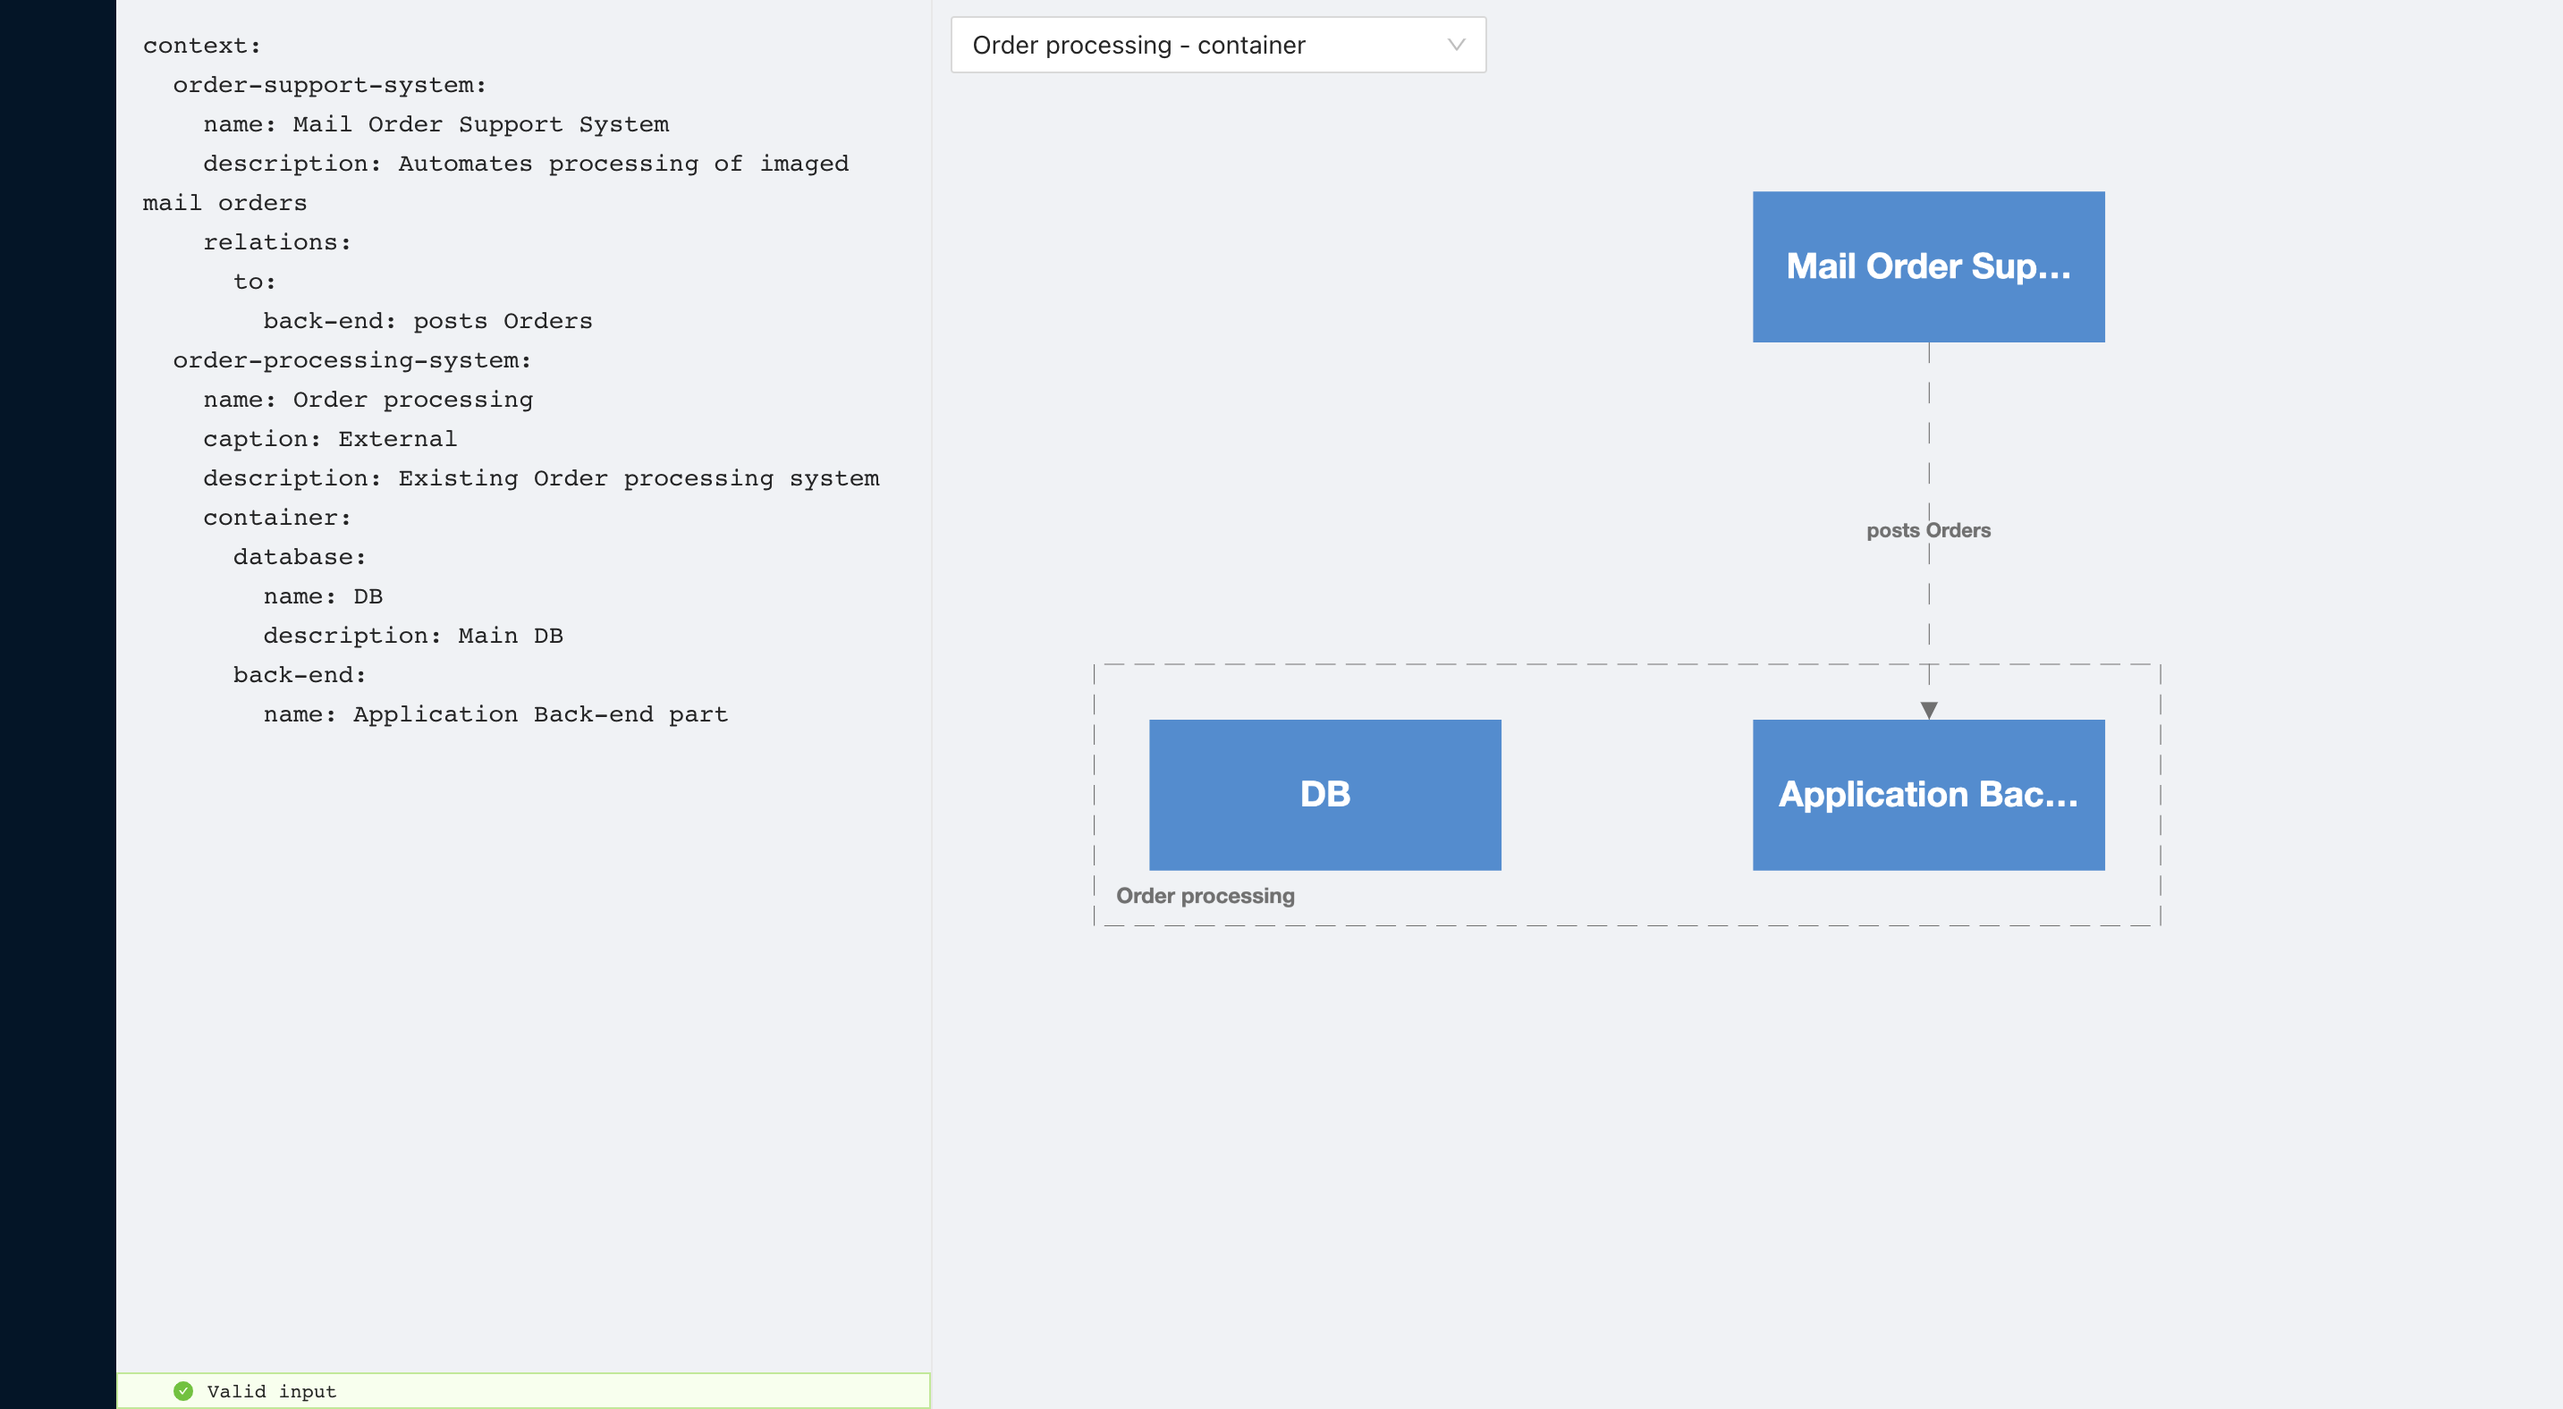
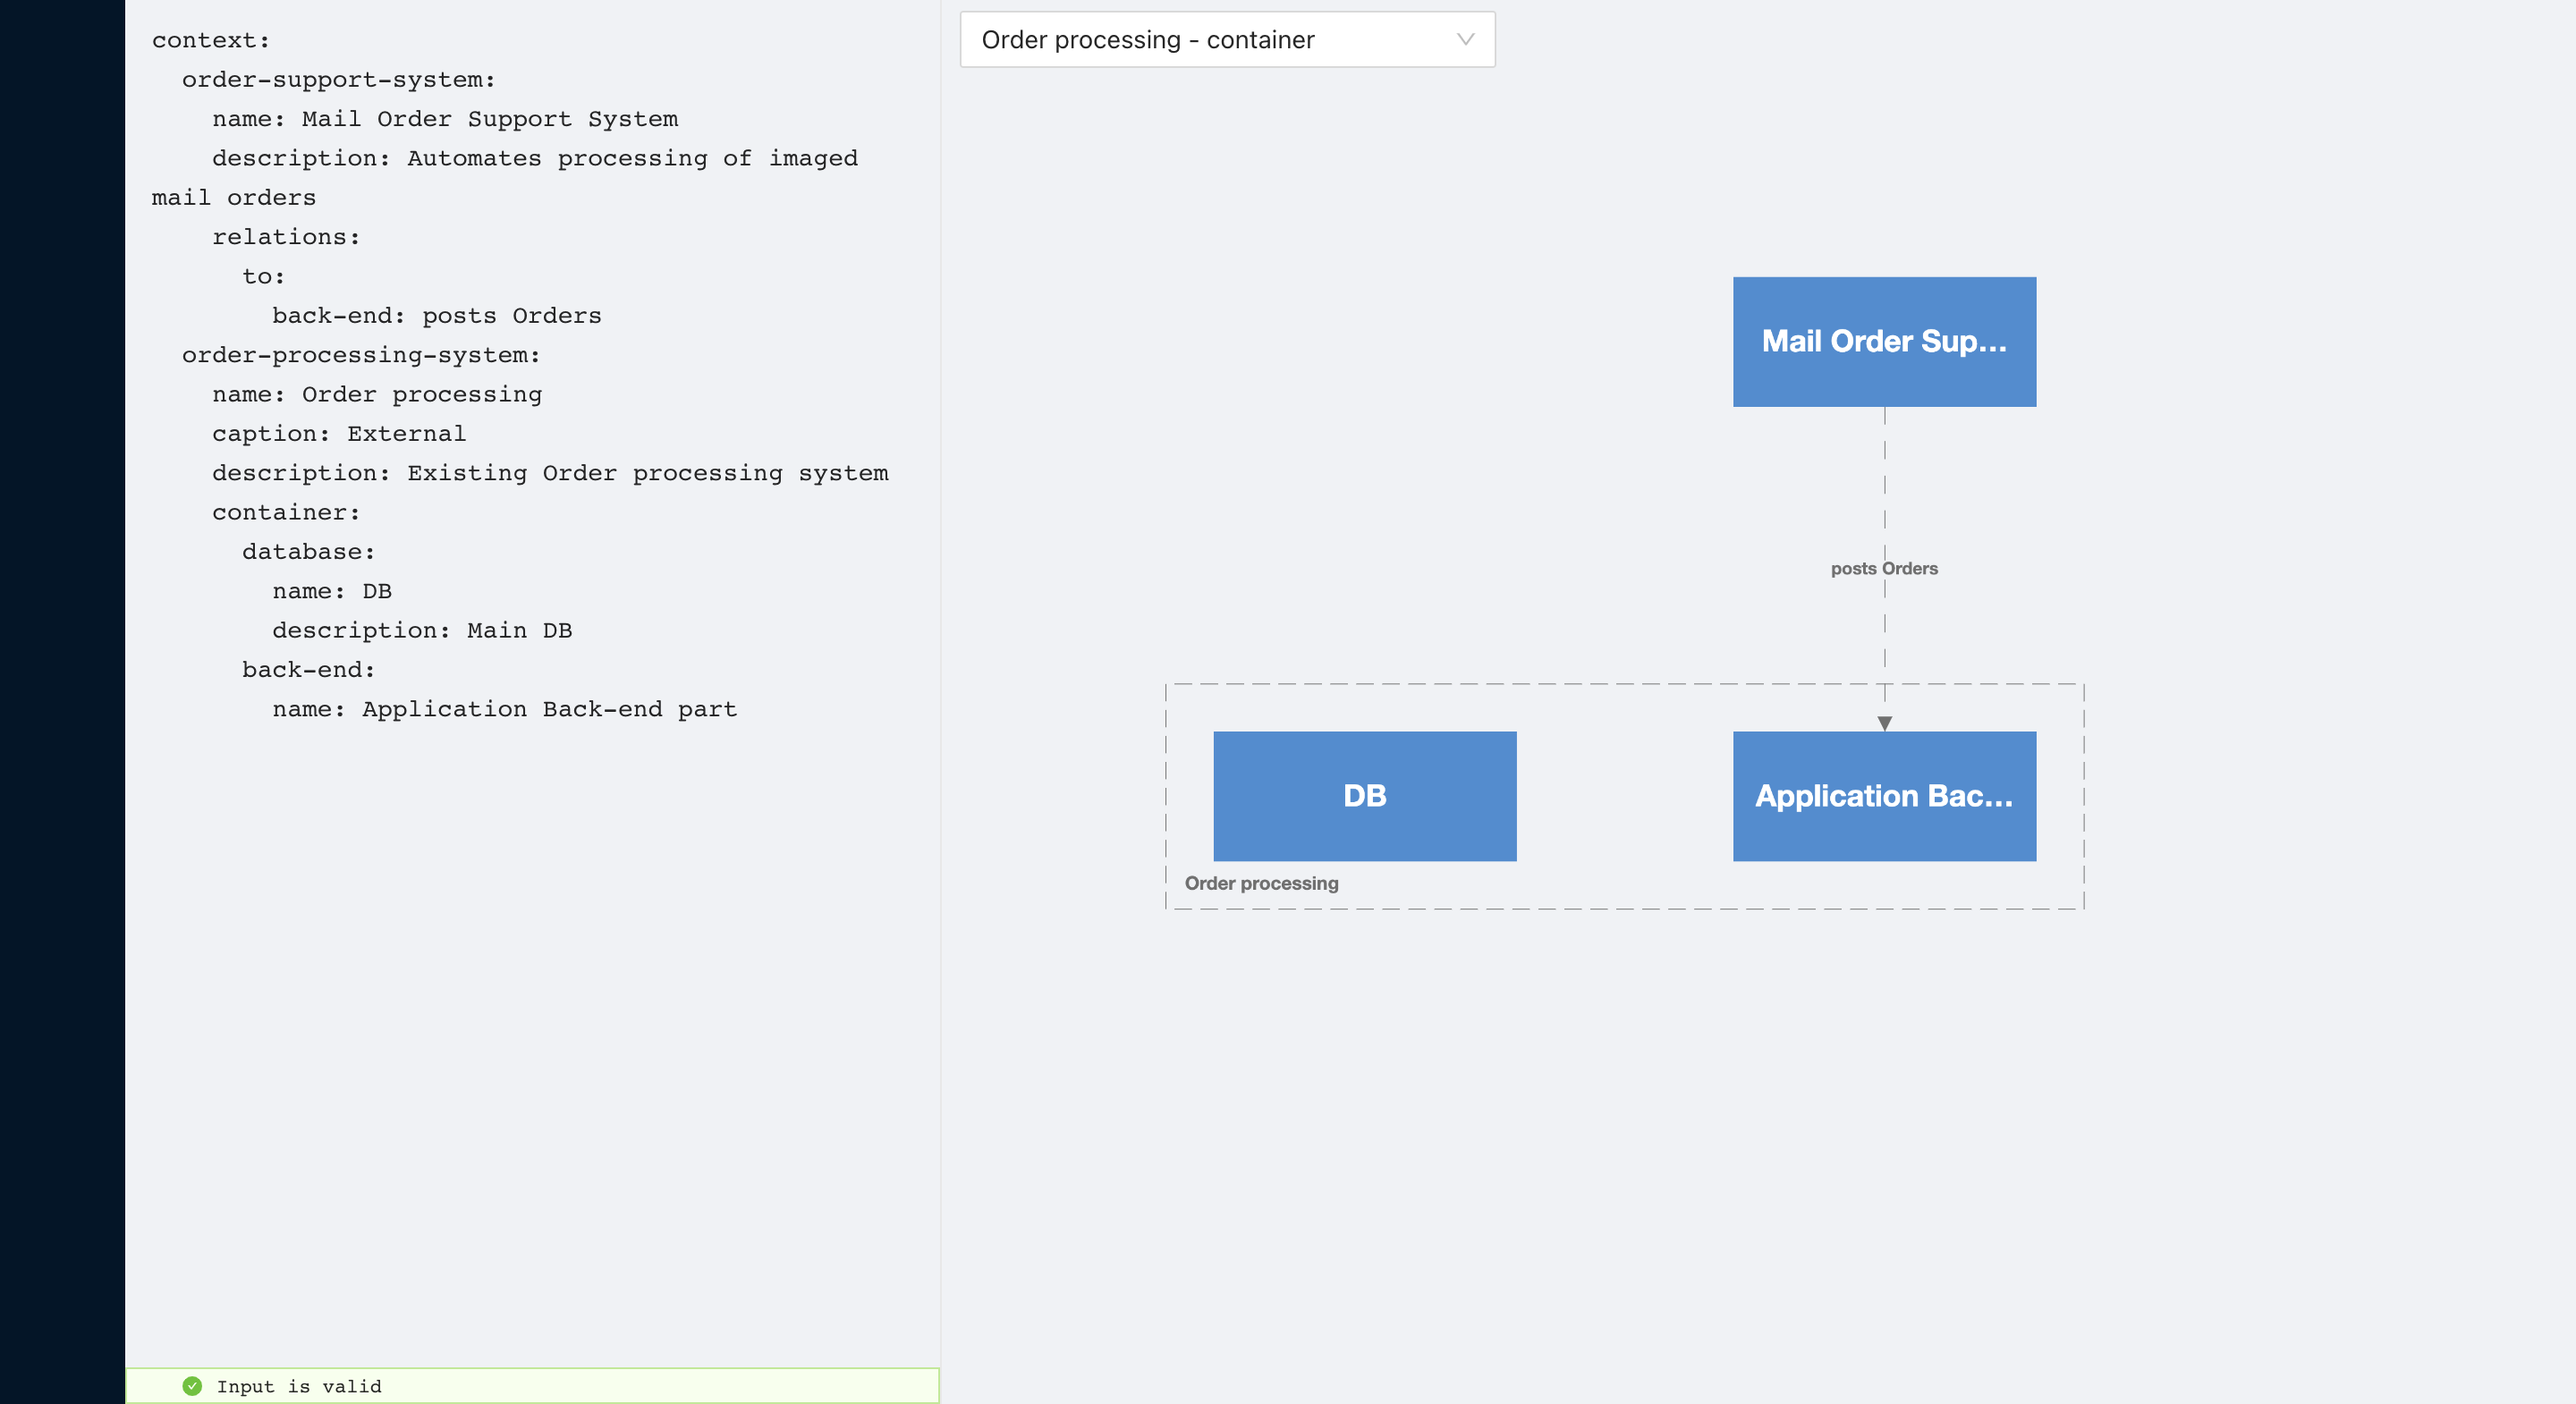
Updates success message of input state

diff --git a/src/components/ContentStatus.js b/src/components/ContentStatus.js
@@ -2,7 +2,7 @@ import React from 'react';
 import { Alert } from 'antd';
 
 const messages = {
-  success: 'Valid input',
+  success: 'Input is valid',
   error: 'Syntax error',
 };
 
